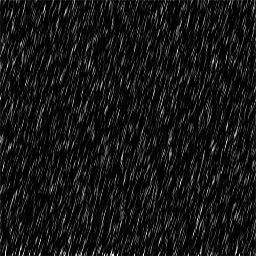
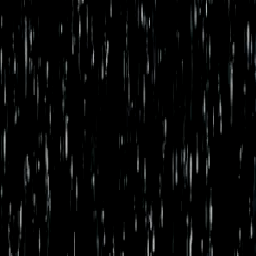
rain

diff --git a/src/main/kotlin/render/batches/RainBatch.kt b/src/main/kotlin/render/batches/RainBatch.kt
@@ -1,32 +1,35 @@
-package render
+package render.batches
 
 import RESOURCE_FILE_DIR
 import com.badlogic.gdx.Gdx
 import com.badlogic.gdx.files.FileHandle
-import com.badlogic.gdx.graphics.*
 import com.badlogic.gdx.graphics.GL20.GL_TEXTURE0
-import render.shaders.weatherFragShader
-import render.shaders.weatherVertShader
+import com.badlogic.gdx.graphics.Texture
+import com.badlogic.gdx.graphics.VertexAttribute
+import com.badlogic.gdx.graphics.VertexAttributes
+import render.Screen
+import render.shaders.rainFragShader
+import render.shaders.rainVertShader
 import util.log
 
-class CloudBatch : RenderBatch() {
+class RainBatch : RenderBatch() {
 
-    override fun vertShader() = weatherVertShader()
-    override fun fragShader() = weatherFragShader()
+    override fun vertShader() = rainVertShader()
+    override fun fragShader() = rainFragShader()
     override fun vertexAttributes() = listOf(
         VertexAttribute(VertexAttributes.Usage.Position, 2, "a_Position"),
-        VertexAttribute(VertexAttributes.Usage.TextureCoordinates, 2, "a_TexCoordinate"),
-        VertexAttribute(VertexAttributes.Usage.Generic, 1, "a_Alpha")
+        VertexAttribute(VertexAttributes.Usage.TextureCoordinates, 2, "a_RainUV"),
+        VertexAttribute(VertexAttributes.Usage.Generic, 2, "a_RainAlpha")
     )
-
-    val TILE_SCALE = 120f
 
     val startTime = System.currentTimeMillis()
 
-    private val texture = Texture(FileHandle("${RESOURCE_FILE_DIR}mask_clouds.png"), true).apply {
-        setFilter(Texture.TextureFilter.Nearest, Texture.TextureFilter.Nearest)
-        log.info("Loaded weather texture mask_clouds.png ($width x $height)")
+    private val rainMask = Texture(FileHandle("${RESOURCE_FILE_DIR}mask_rainfall.png"), true).apply {
+        setFilter(Texture.TextureFilter.Linear, Texture.TextureFilter.Linear)
+        setWrap(Texture.TextureWrap.MirroredRepeat, Texture.TextureWrap.Repeat)
+        log.info("Loaded weather texture mask_rainfall.png ($width x $height)")
     }
+
 
     inline fun FloatArray.addVertex(x: Float, y: Float, tx: Float, ty: Float, alpha: Float) {
         this[floatCount] = x
@@ -44,15 +47,11 @@ class CloudBatch : RenderBatch() {
         val x1 = Screen.tileXtoGlx(col + 1.0).toFloat()
         val y1 = 0f - Screen.tileYtoGly(row + 1.0).toFloat()
 
-        val windX = 0.6f
-        val windY = 0.2f
-        val timeshift = App.time + ((System.currentTimeMillis() - startTime) / 256f)
-        val tcol = col.toFloat() + windX * timeshift
-        val trow = row.toFloat() + windY * timeshift
-        val tx0 = ((tcol % TILE_SCALE).toFloat() / TILE_SCALE)
-        val ty0 = ((trow % TILE_SCALE).toFloat() / TILE_SCALE)
-        val tx1 = tx0 + 1f / TILE_SCALE
-        val ty1 = ty0 + 1f / TILE_SCALE
+        val tx0 = x0 % 1.0f
+        val ty0 = y0 % 1.0f
+        val tx1 = x1 % 1.0f
+        val ty1 = y1 % 1.0f
+
         floats.apply {
             addVertex(x0, y0, tx0, ty0, alpha)
             addVertex(x0, y1, tx0, ty1, alpha)
@@ -65,13 +64,15 @@ class CloudBatch : RenderBatch() {
 
     override fun bindTextures() {
         Gdx.gl.glActiveTexture(GL_TEXTURE0)
-        texture.bind()
-        shader.setUniformi("u_Texture", 0)
+        rainMask.bind()
+        shader.setUniformi("u_RainMask", 0)
+        shader.setUniformf("u_Time", (System.currentTimeMillis() - startTime).toFloat())
+        shader.setUniformf("u_Speed", 0.007f * Screen.zoom.toFloat())
     }
 
     override fun dispose() {
         super.dispose()
-        texture.dispose()
+        rainMask.dispose()
     }
 
 }

diff --git a/src/main/kotlin/render/batches/CloudBatch.kt b/src/main/kotlin/render/batches/CloudBatch.kt
@@ -1,0 +1,79 @@
+package render.batches
+
+import RESOURCE_FILE_DIR
+import com.badlogic.gdx.Gdx
+import com.badlogic.gdx.files.FileHandle
+import com.badlogic.gdx.graphics.*
+import com.badlogic.gdx.graphics.GL20.GL_TEXTURE0
+import render.Screen
+import render.shaders.cloudFragShader
+import render.shaders.cloudVertShader
+import util.log
+
+class CloudBatch : RenderBatch() {
+
+    override fun vertShader() = cloudVertShader()
+    override fun fragShader() = cloudFragShader()
+    override fun vertexAttributes() = listOf(
+        VertexAttribute(VertexAttributes.Usage.Position, 2, "a_Position"),
+        VertexAttribute(VertexAttributes.Usage.TextureCoordinates, 2, "a_CloudUV"),
+        VertexAttribute(VertexAttributes.Usage.Generic, 1, "a_CloudAlpha")
+    )
+
+    val TILE_SCALE = 120f
+
+    val startTime = System.currentTimeMillis()
+
+    private val cloudTexture = Texture(FileHandle("${RESOURCE_FILE_DIR}mask_clouds.png"), true).apply {
+        setFilter(Texture.TextureFilter.Nearest, Texture.TextureFilter.Nearest)
+        log.info("Loaded weather texture mask_clouds.png ($width x $height)")
+    }
+
+
+    inline fun FloatArray.addVertex(x: Float, y: Float, tx: Float, ty: Float, alpha: Float) {
+        this[floatCount] = x
+        this[floatCount+1] = y
+        this[floatCount+2] = tx
+        this[floatCount+3] = ty
+        this[floatCount+4] = alpha
+        floatCount += floatsPerVertex
+        vertexCount++
+    }
+
+    inline fun addTileQuad(col: Int, row: Int, alpha: Float) {
+        val x0 = Screen.tileXtoGlx(col.toDouble()).toFloat()
+        val y0 = 0f - Screen.tileYtoGly(row.toDouble()).toFloat()
+        val x1 = Screen.tileXtoGlx(col + 1.0).toFloat()
+        val y1 = 0f - Screen.tileYtoGly(row + 1.0).toFloat()
+
+        val windX = 0.6f
+        val windY = 0.2f
+        val timeshift = App.time + ((System.currentTimeMillis() - startTime) / 256f)
+        val tcol = col.toFloat() + windX * timeshift
+        val trow = row.toFloat() + windY * timeshift
+        val tx0 = ((tcol % TILE_SCALE).toFloat() / TILE_SCALE)
+        val ty0 = ((trow % TILE_SCALE).toFloat() / TILE_SCALE)
+        val tx1 = tx0 + 1f / TILE_SCALE
+        val ty1 = ty0 + 1f / TILE_SCALE
+        floats.apply {
+            addVertex(x0, y0, tx0, ty0, alpha)
+            addVertex(x0, y1, tx0, ty1, alpha)
+            addVertex(x1, y0, tx1, ty0, alpha)
+            addVertex(x1, y0, tx1, ty0, alpha)
+            addVertex(x0, y1, tx0, ty1, alpha)
+            addVertex(x1, y1, tx1, ty1, alpha)
+        }
+    }
+
+    override fun bindTextures() {
+        Gdx.gl.glActiveTexture(GL_TEXTURE0)
+        cloudTexture.bind()
+        shader.setUniformi("u_CloudTexture", 0)
+    }
+
+    override fun dispose() {
+        super.dispose()
+        cloudTexture.dispose()
+    }
+
+}

diff --git a/src/main/kotlin/render/Screen.kt b/src/main/kotlin/render/Screen.kt
@@ -11,6 +11,9 @@ import com.badlogic.gdx.graphics.g2d.BitmapFont
 import com.badlogic.gdx.graphics.g2d.SpriteBatch
 import com.badlogic.gdx.graphics.g2d.freetype.FreeTypeFontGenerator
 import ktx.app.KtxScreen
+import render.batches.CloudBatch
+import render.batches.QuadBatch
+import render.batches.RainBatch
 import render.tilesets.*
 import ui.input.Keyboard
 import ui.input.Mouse
@@ -71,8 +74,10 @@ object Screen : KtxScreen {
     val uiThingBatch = QuadBatch(thingTileSet)
     val uiActorBatch = QuadBatch(actorTileSet)
     val cloudBatch = CloudBatch()
+    val rainBatch = RainBatch()
     private val worldBatches = listOf(terrainBatch, actorBatch, thingBatch, uiWorldBatch)
-    private val allBatches = listOf(terrainBatch, overlapBatch, thingBatch, actorBatch, uiWorldBatch, uiBatch, uiThingBatch, uiActorBatch, cloudBatch)
+    private val allBatches = listOf(terrainBatch, overlapBatch, thingBatch, actorBatch,
+        uiWorldBatch, uiBatch, uiThingBatch, uiActorBatch, cloudBatch, rainBatch)
     val textBatch = SpriteBatch()
     var textCamera = OrthographicCamera(100f, 100f)
 
@@ -180,8 +185,9 @@ object Screen : KtxScreen {
         lightCache[lx][ly].b = light.b
     }
 
-    private val renderWeather: (Int, Int, Float)->Unit = { tx, ty, alpha ->
-        cloudBatch.addTileQuad(tx, ty, alpha)
+    private val renderWeather: (Int, Int, Float, Float)->Unit = { tx, ty, cloudAlpha, rainAlpha ->
+        cloudBatch.addTileQuad(tx, ty, cloudAlpha)
+        rainBatch.addTileQuad(tx, ty, rainAlpha)
     }
 
     private val renderOverlap: (Int, Int, Float, Glyph, XY, LightColor)->Unit = { tx, ty, vis, glyph, edge, light ->

diff --git a/src/main/kotlin/world/Level.kt b/src/main/kotlin/world/Level.kt
@@ -54,6 +54,7 @@ sealed class Level {
     private val ambientLight = LightColor(0.4f, 0.3f, 0.7f)
     private val indoorLight = LightColor(0.1f, 0.2f, 0.5f)
     private var cloudIntensity = 1f
+    private var rainIntensity = 1f
     open fun timeScale() = 1.0f
     open val sunLightSteps = sunLights()
     // We write into this value to return per-cell ambient light with player falloff.  This is to avoid allocation.
@@ -78,7 +79,7 @@ sealed class Level {
         doOcclude: (x: Int, y: Int, edge: XY) -> Unit,
         doSurf: (x: Int, y: Int, vis: Float, light: LightColor, edge: XY) -> Unit,
         doStain: (x: Int, y: Int, stain: Stain, light: LightColor) -> Unit,
-        doWeather: (x: Int, y: Int, alpha: Float) -> Unit,
+        doWeather: (x: Int, y: Int, cloudAlpha: Float, rainAlpha: Float) -> Unit,
         delta: Float
     ) {
         for (x in pov.x - Screen.renderTilesWide / 2 until pov.x + Screen.renderTilesWide / 2) {
@@ -96,7 +97,7 @@ sealed class Level {
                         terrain.renderExtraQuads(this, x, y, vis, glyph, light, doTile)
                         if (vis == 1f) {
                             if (!isRoofedAt(x, y) && (!isOpaqueAt(x, y) || isWalkableAt(x, y))) {
-                                doWeather(x, y, this.cloudIntensity)
+                                doWeather(x, y, this.cloudIntensity, this.rainIntensity)
                             }
                             chunk.thingsAt(x, y).forEach { it.onRender(delta) }
                             actorAt(x, y)?.onRender(delta)

diff --git a/src/main/kotlin/render/shaders/rainFragShader.kt b/src/main/kotlin/render/shaders/rainFragShader.kt
@@ -1,0 +1,22 @@
+package render.shaders
+
+fun rainFragShader() = """
+    uniform sampler2D u_RainMask;
+    uniform float u_Time;
+    uniform float u_Speed;
+
+    varying vec2 v_RainUV;
+    varying float v_RainAlpha;
+
+    void main()
+    {
+        vec2 fallUV = vec2(v_RainUV.x, v_RainUV.y + u_Time * u_Speed);
+        vec2 fallUV2 = vec2(v_RainUV.x + 0.2, v_RainUV.y + 0.2 + u_Time * u_Speed * 0.7);
+        vec2 fallUV3 = vec2(v_RainUV.x + 0.4, v_RainUV.y + 0.4 + u_Time * u_Speed * 0.6);
+        float sample = texture2D(u_RainMask, fallUV).r;
+        float sample2 = texture2D(u_RainMask, fallUV2).r;
+        float sample3 = texture2D(u_RainMask, fallUV3).r;
+        gl_FragColor = vec4(1.0, 1.0, 1.0, (sample + sample2) * v_RainAlpha * 0.12);
+    }
+
+""".trimIndent()

diff --git a/src/main/kotlin/render/shaders/rainVertShader.kt b/src/main/kotlin/render/shaders/rainVertShader.kt
@@ -1,0 +1,24 @@
+package render.shaders
+
+fun rainVertShader() = """
+    attribute vec3 a_Position;
+    attribute vec2 a_RainUV;
+    attribute float a_RainAlpha;
+    uniform float u_Time;
+    uniform float u_Speed;
+
+    varying vec2 v_RainUV;
+    varying float v_RainAlpha;
+
+    void main()
+    {
+        float rainu = a_Position.x * 3.0;
+        float rainv = a_Position.y * 3.0;
+        
+        v_RainUV = vec2(rainu, rainv);
+        v_RainAlpha = a_RainAlpha;
+
+        gl_Position = vec4(a_Position.xy, 0.0, 1.0);
+    }
+
+""".trimIndent()

diff --git a/src/main/kotlin/render/batches/QuadBatch.kt b/src/main/kotlin/render/batches/QuadBatch.kt
@@ -1,12 +1,10 @@
-package render
+package render.batches
 
 import com.badlogic.gdx.Gdx
-import com.badlogic.gdx.graphics.GL20
 import com.badlogic.gdx.graphics.GL20.GL_TEXTURE0
 import com.badlogic.gdx.graphics.VertexAttribute
 import com.badlogic.gdx.graphics.VertexAttributes.Usage
-import com.badlogic.gdx.graphics.glutils.ShaderProgram
-import ktx.graphics.use
+import render.Screen
 import render.shaders.tileFragShader
 import render.shaders.tileVertShader
 import render.tilesets.TileSet

diff --git a/src/main/kotlin/render/shaders/cloudVertShader.kt b/src/main/kotlin/render/shaders/cloudVertShader.kt
@@ -1,0 +1,19 @@
+package render.shaders
+
+fun cloudVertShader() = """
+    attribute vec3 a_Position;
+    attribute vec2 a_CloudUV;
+    attribute float a_CloudAlpha;
+
+    varying vec2 v_CloudUV;
+    varying float v_CloudAlpha;
+
+    void main()
+    {
+        v_CloudUV = a_CloudUV;
+        v_CloudAlpha = a_CloudAlpha;
+
+        gl_Position = vec4(a_Position.xy, 0.0, 1.0);
+    }
+
+""".trimIndent()

diff --git a/src/main/kotlin/ui/modals/Modal.kt b/src/main/kotlin/ui/modals/Modal.kt
@@ -4,10 +4,8 @@ import com.badlogic.gdx.Gdx
 import com.badlogic.gdx.Input
 import com.badlogic.gdx.graphics.GL20
 import com.badlogic.gdx.graphics.g2d.SpriteBatch
-import render.QuadBatch
+import render.batches.QuadBatch
 import render.Screen
-import render.shaders.tileFragShader
-import render.shaders.tileVertShader
 import render.tilesets.ActorTileSet
 import ui.panels.Panel
 import render.tilesets.Glyph

diff --git a/src/main/kotlin/render/shaders/cloudFragShader.kt b/src/main/kotlin/render/shaders/cloudFragShader.kt
@@ -1,0 +1,15 @@
+package render.shaders
+
+fun cloudFragShader() = """
+    uniform sampler2D u_CloudTexture;
+
+    varying vec2 v_CloudUV;
+    varying float v_CloudAlpha;
+
+    void main()
+    {
+        vec4 sample = texture2D(u_CloudTexture, v_CloudUV);
+        gl_FragColor = vec4(sample.r, sample.g, sample.b, sample.a * v_CloudAlpha);
+    }
+
+""".trimIndent()

diff --git a/src/main/kotlin/world/Entity.kt b/src/main/kotlin/world/Entity.kt
@@ -1,6 +1,6 @@
 package world
 
-import render.QuadBatch
+import render.batches.QuadBatch
 import render.tilesets.Glyph
 import util.XY
 import util.aOrAn

diff --git a/src/main/kotlin/render/batches/RenderBatch.kt b/src/main/kotlin/render/batches/RenderBatch.kt
@@ -1,4 +1,4 @@
-package render
+package render.batches
 
 import com.badlogic.gdx.graphics.GL20
 import com.badlogic.gdx.graphics.Mesh
